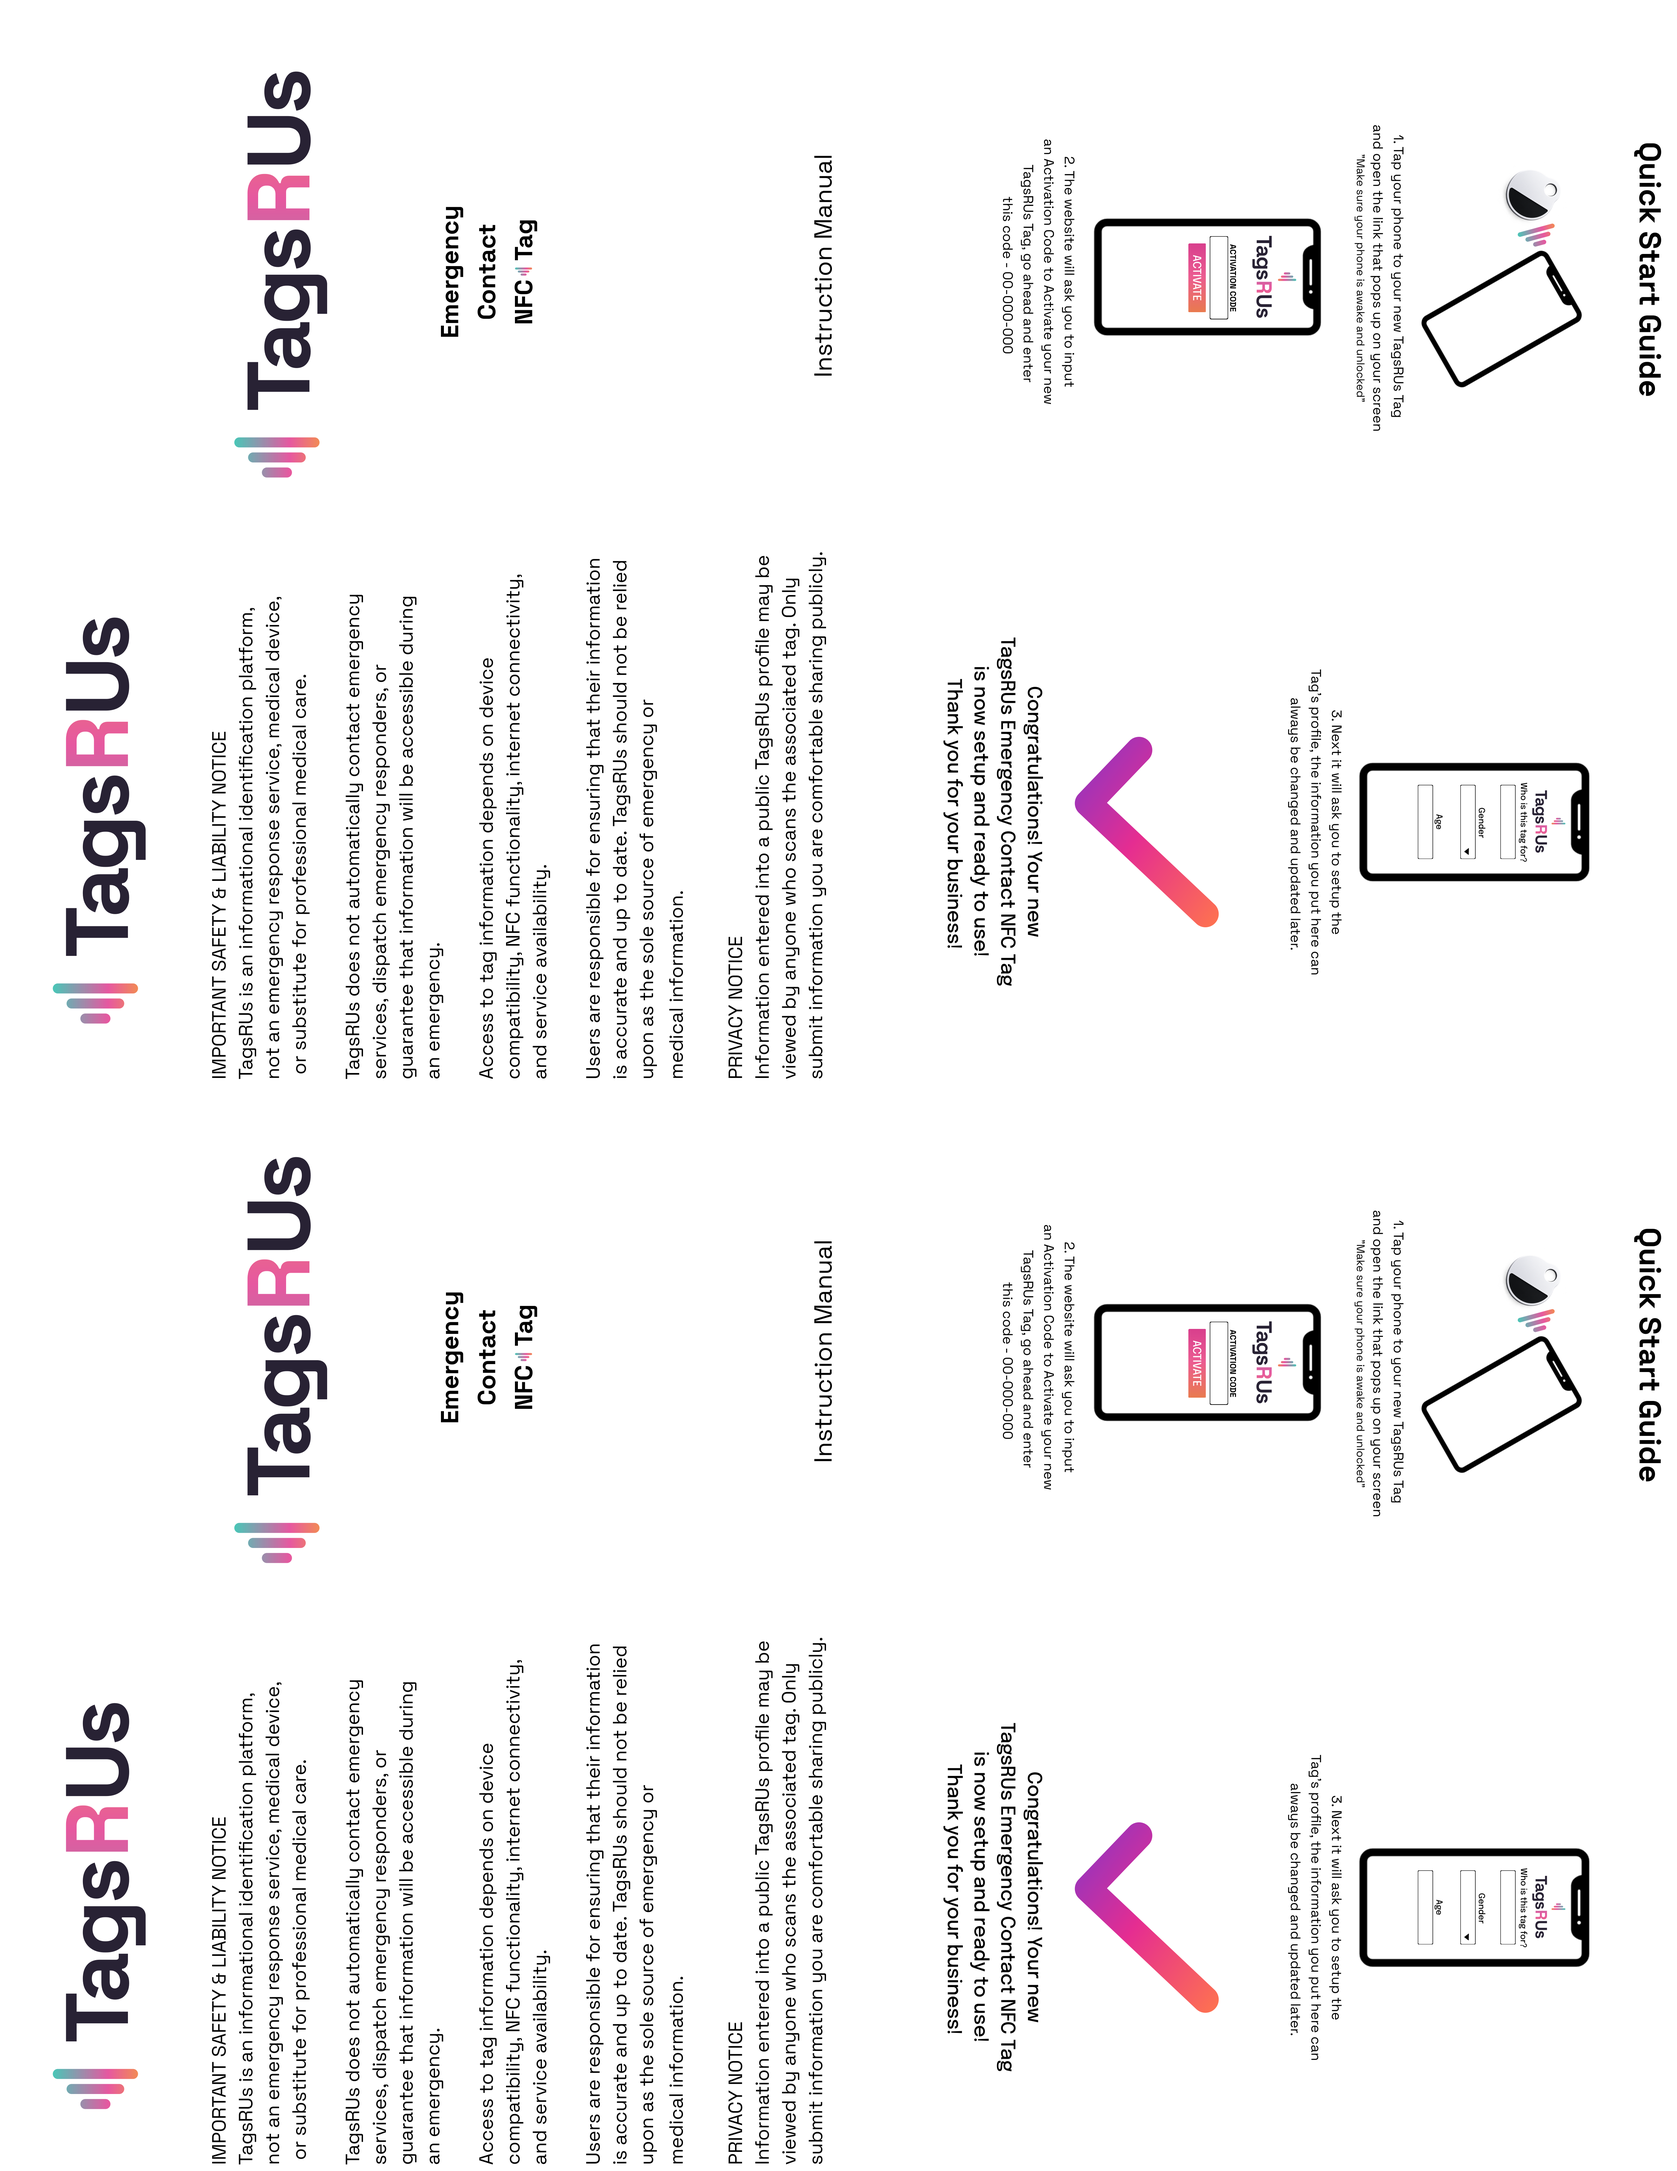
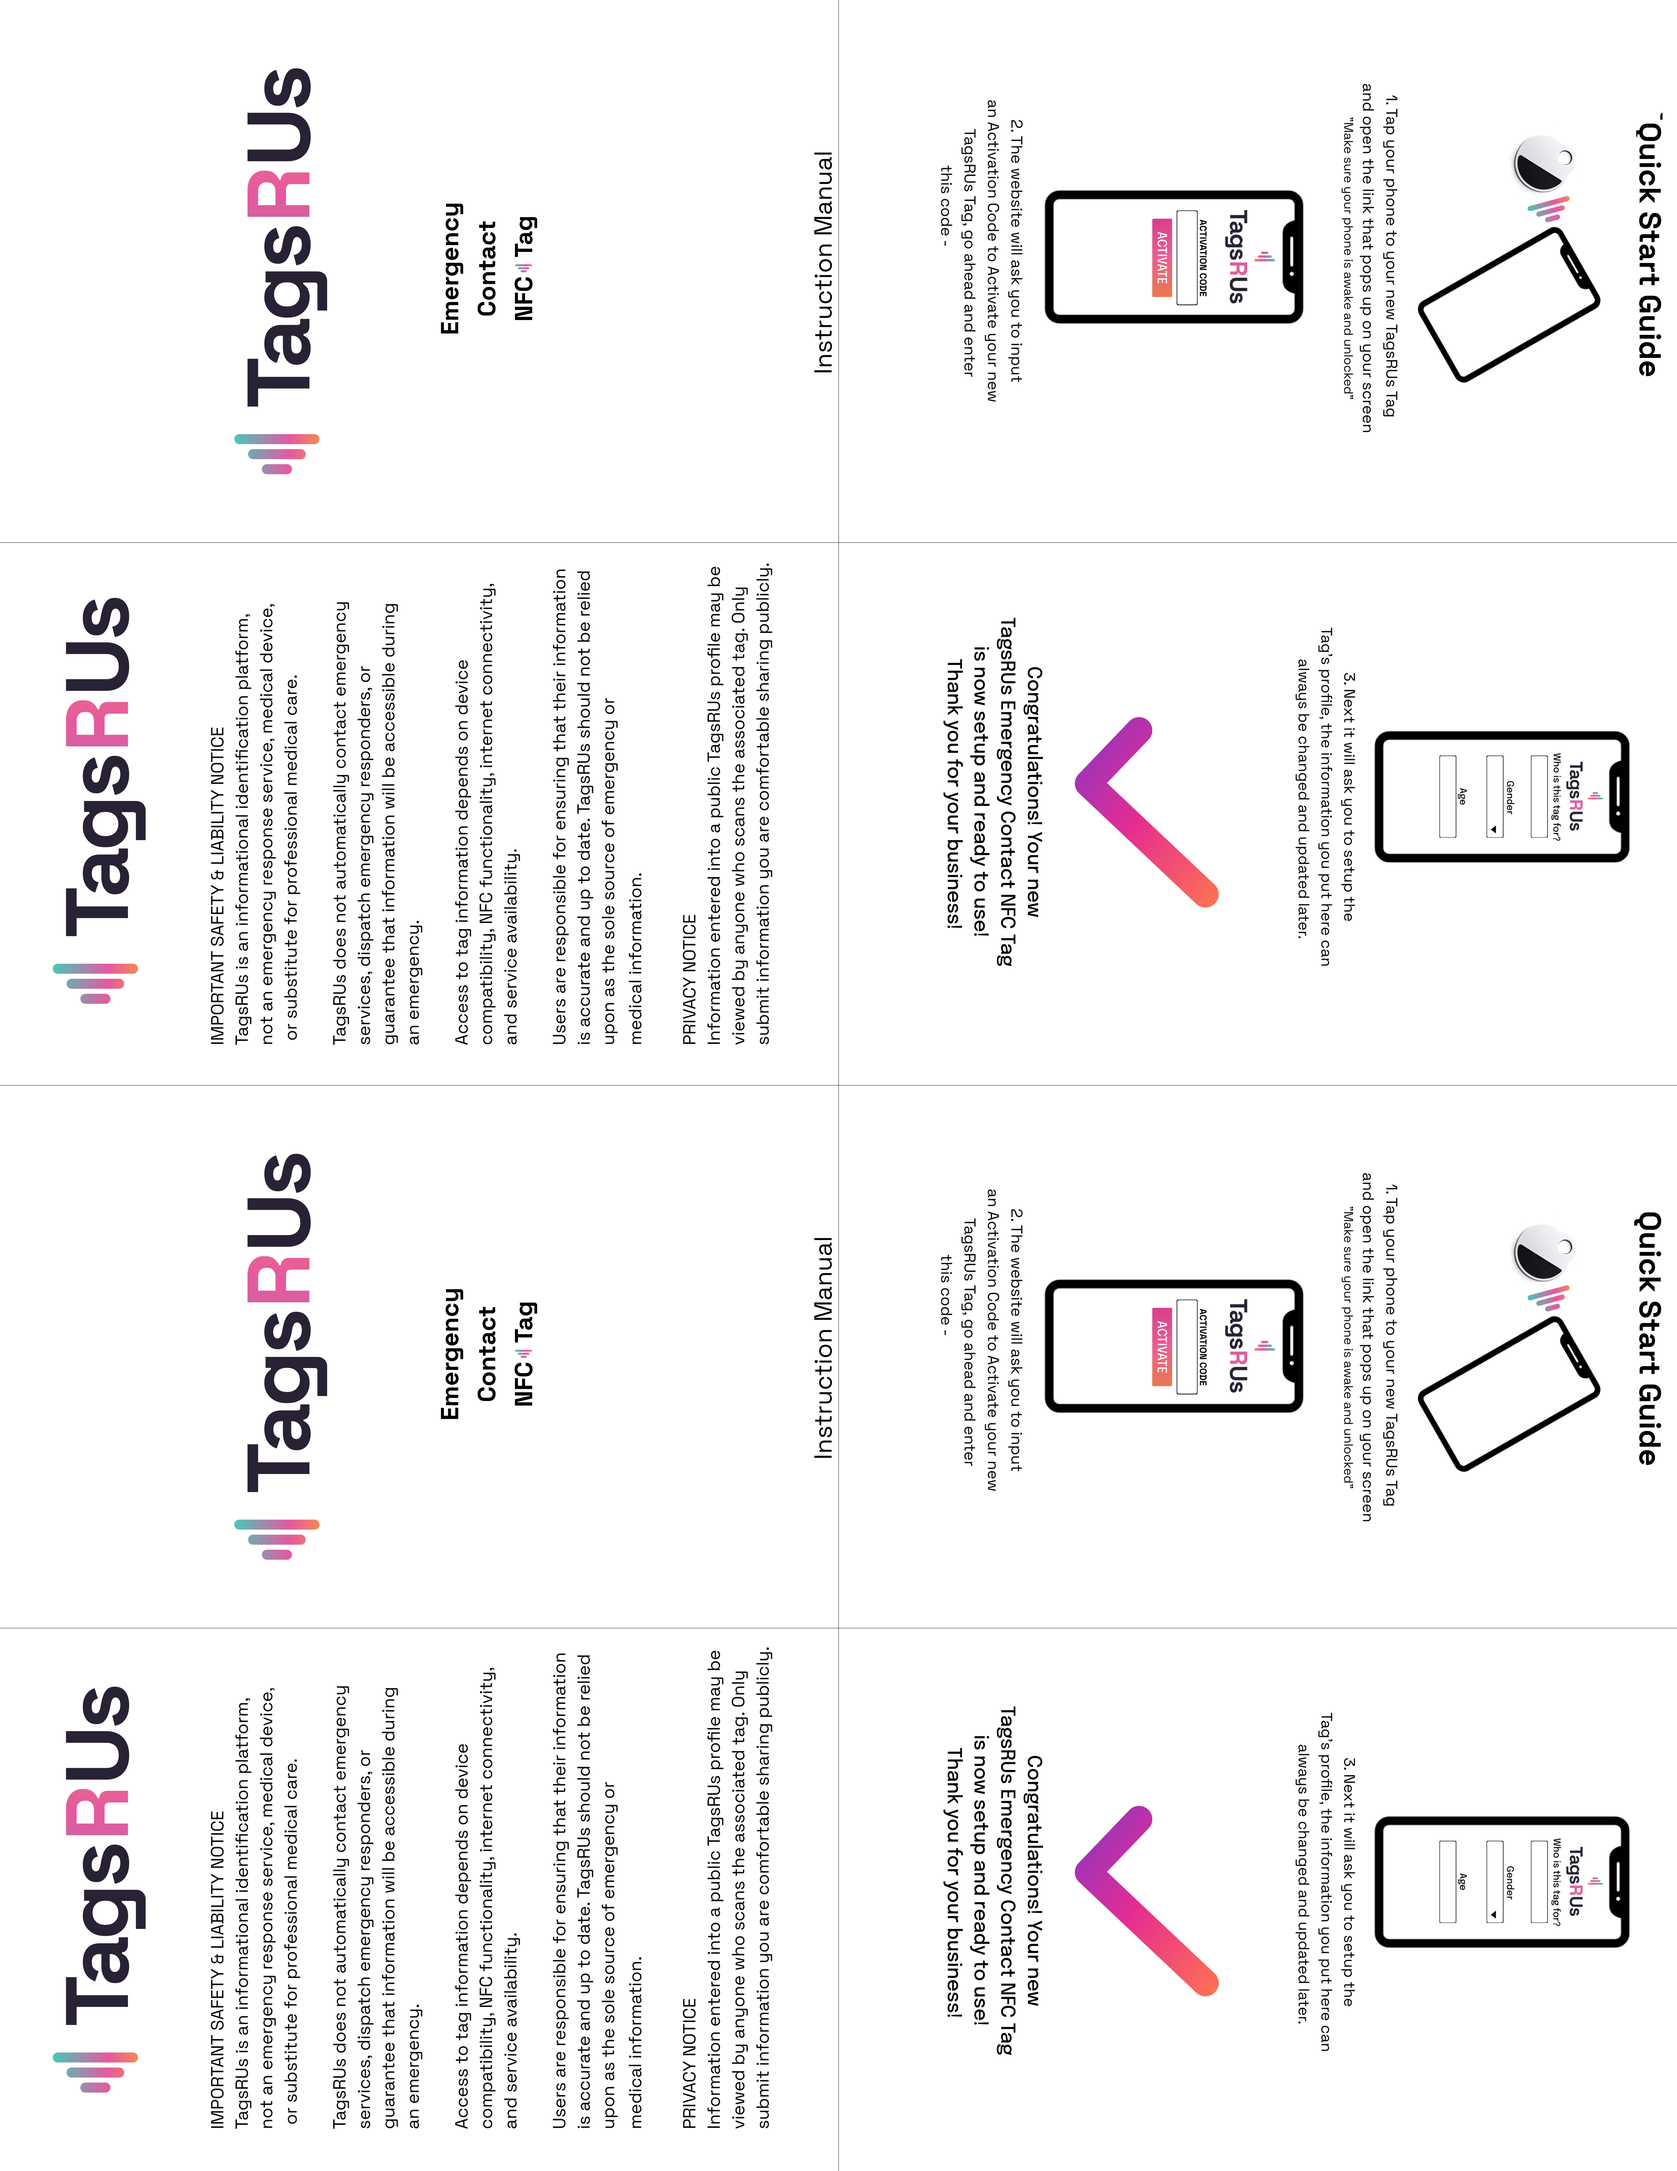
Add tag unregister flow

diff --git a/src/main.jsx b/src/main.jsx
@@ -168,7 +168,7 @@ function Checkout() { const [qty, setQty] = useState(1); const navigate = useNav
 function Dashboard() {
   const { user } = useAuth(); const navigate = useNavigate();
   const [tags, setTags] = useState([]); const [showAdd, setShowAdd] = useState(false); const [code, setCode] = useState('');
-  const [notice, setNotice] = useState(''); const [error, setError] = useState(''); const [busy, setBusy] = useState(false); const [loading, setLoading] = useState(true);
+  const [notice, setNotice] = useState(''); const [error, setError] = useState(''); const [busy, setBusy] = useState(false); const [unregisteringId, setUnregisteringId] = useState(''); const [loading, setLoading] = useState(true);
   const client = requireSupabase();
   async function loadTags() {
     setLoading(true); setError('');
@@ -187,6 +187,16 @@ function Dashboard() {
     if (updateError) setError(readableError(updateError));
     else { setNotice(status === 'active' ? 'Tag reactivated.' : 'Tag deactivated. Its public profile is no longer available.'); await loadTags(); }
   }
+  async function unregisterTag(tag) {
+    if (!window.confirm(`Unregister ${tag.name}? This removes the tag and its profile from your account. Its activation code can be connected again.`)) return;
+    setUnregisteringId(tag.id); setError(''); setNotice('');
+    try {
+      const { error: unregisterError } = await client.rpc('unregister_tagsrus_tag', { p_tag_id: tag.id });
+      if (unregisterError) setError(readableError(unregisterError));
+      else { setNotice('Tag unregistered. Its activation code is available to connect again.'); await loadTags(); }
+    } catch (unregisterError) { setError(readableError(unregisterError)); }
+    finally { setUnregisteringId(''); }
+  }
   async function claimTag(e) {
     e.preventDefault(); setBusy(true); setError(''); setNotice('');
     const { data: claimData, error: claimError } = await client.rpc('claim_tagsrus_tag', { p_code: code });
@@ -194,10 +204,10 @@ function Dashboard() {
     else { const claimed = Array.isArray(claimData) ? claimData[0] : claimData; setShowAdd(false); setCode(''); setNotice('Tag connected to your account.'); await loadTags(); if (claimed?.profile_id) navigate(`/dashboard/profiles/${claimed.profile_id}/setup`); }
     setBusy(false);
   }
-  return <div className="dashboard-page"><div className="dashboard-nav"><Container><Logo /><div className="dashboard-nav-actions"><span className="user-chip">{(user.user_metadata?.full_name || user.email || 'U').slice(0, 1).toUpperCase()}</span><span className="user-name">{user.user_metadata?.full_name || user.email}</span><AdminLink /><button className="text-link" onClick={signOut}>Sign out</button></div></Container></div><main><Container className="dashboard-main"><div className="dashboard-heading"><div><p className="eyebrow">Your account</p><h1>My tags</h1><p>Manage your tags and the information they share.</p></div><button className="button" onClick={() => setShowAdd(true)}>{icons.plus} Add a tag</button></div>{notice && <div className="notice" role="status">{icons.check}<span>{notice}</span><button onClick={() => setNotice('')}>×</button></div>}{error && <div className="form-error" role="alert">{error}</div>}{loading ? <p>Loading your tags…</p> : <div className="dashboard-grid">{tags.map(tag => <TagRow key={tag.id} tag={tag} onToggle={() => toggleTag(tag)} />)}{!tags.length && <div className="notice">No tags are connected yet. Add the activation code included with your tag.</div>}<button className="add-card" onClick={() => setShowAdd(true)}><span>{icons.plus}</span><strong>Add another tag</strong><small>Connect another TagsRUs product</small></button></div>}<div className="dashboard-callout"><div className="callout-icon">{icons.shield}</div><div><strong>Your information, your control.</strong><p>Only information you mark public is visible without a PIN. You can change your settings any time.</p></div>{tags[0] && <Link to={`/dashboard/profiles/${tags[0].profile_id}`}>Review profile {icons.arrow}</Link>}</div></Container></main>{showAdd && <div className="modal-backdrop" onClick={() => setShowAdd(false)}><form className="modal" onSubmit={claimTag} onClick={e => e.stopPropagation()}><button type="button" className="modal-close" onClick={() => setShowAdd(false)}>{icons.close}</button><div className="modal-icon">{icons.plus}</div><h2>Add a TagsRUs tag</h2><p>Enter the activation code printed on the back of your tag to connect it to your account.</p><label>Tag code<input value={code} onChange={e => setCode(e.target.value.toUpperCase())} required maxLength="64" autoComplete="off" placeholder="e.g. TR-4829-AX" /></label><button className="button button-full" disabled={busy}>{busy ? 'Connecting…' : 'Connect tag'} {icons.arrow}</button></form></div>}</div>;
+  return <div className="dashboard-page"><div className="dashboard-nav"><Container><Logo /><div className="dashboard-nav-actions"><span className="user-chip">{(user.user_metadata?.full_name || user.email || 'U').slice(0, 1).toUpperCase()}</span><span className="user-name">{user.user_metadata?.full_name || user.email}</span><AdminLink /><button className="text-link" onClick={signOut}>Sign out</button></div></Container></div><main><Container className="dashboard-main"><div className="dashboard-heading"><div><p className="eyebrow">Your account</p><h1>My tags</h1><p>Manage your tags and the information they share.</p></div><button className="button" onClick={() => setShowAdd(true)}>{icons.plus} Add a tag</button></div>{notice && <div className="notice" role="status">{icons.check}<span>{notice}</span><button onClick={() => setNotice('')}>×</button></div>}{error && <div className="form-error" role="alert">{error}</div>}{loading ? <p>Loading your tags…</p> : <div className="dashboard-grid">{tags.map(tag => <TagRow key={tag.id} tag={tag} onToggle={() => toggleTag(tag)} onUnregister={() => unregisterTag(tag)} unregistering={unregisteringId === tag.id} />)}{!tags.length && <div className="notice">No tags are connected yet. Add the activation code included with your tag.</div>}<button className="add-card" onClick={() => setShowAdd(true)}><span>{icons.plus}</span><strong>Add another tag</strong><small>Connect another TagsRUs product</small></button></div>}<div className="dashboard-callout"><div className="callout-icon">{icons.shield}</div><div><strong>Your information, your control.</strong><p>Only information you mark public is visible without a PIN. You can change your settings any time.</p></div>{tags[0] && <Link to={`/dashboard/profiles/${tags[0].profile_id}`}>Review profile {icons.arrow}</Link>}</div></Container></main>{showAdd && <div className="modal-backdrop" onClick={() => setShowAdd(false)}><form className="modal" onSubmit={claimTag} onClick={e => e.stopPropagation()}><button type="button" className="modal-close" onClick={() => setShowAdd(false)}>{icons.close}</button><div className="modal-icon">{icons.plus}</div><h2>Add a TagsRUs tag</h2><p>Enter the activation code printed on the back of your tag to connect it to your account.</p><label>Tag code<input value={code} onChange={e => setCode(e.target.value.toUpperCase())} required maxLength="64" autoComplete="off" placeholder="e.g. TR-4829-AX" /></label><button className="button button-full" disabled={busy}>{busy ? 'Connecting…' : 'Connect tag'} {icons.arrow}</button></form></div>}</div>;
 }
 
-function TagRow({ tag, onToggle }) { return <div className={`tag-row-card ${tag.status !== 'Active' ? 'is-inactive' : ''}`}><div className="tag-row-main"><div className="mini-tag"><span>)))</span></div><div><div className="tag-row-title"><h2>{tag.name}</h2><span className={`status ${tag.status === 'Active' ? 'status-active' : 'status-inactive'}`}><i></i>{tag.status}</span></div><p>{tag.profile} · Updated {tag.updated}</p><a className="profile-url" href={`/t/${tag.public_token}`} target="_blank" rel="noreferrer">{window.location.host}/t/{tag.public_token} ↗</a></div></div><div className="tag-row-actions"><button title="QR code display is not configured yet" disabled>{icons.qr}</button><Link to={`/dashboard/profiles/${tag.profile_id}`} title="Edit profile">{icons.edit}</Link><button className="deactivate-button" onClick={onToggle}>{tag.status === 'Active' ? 'Deactivate' : 'Reactivate'}</button></div></div>; }
+function TagRow({ tag, onToggle, onUnregister, unregistering }) { return <div className={`tag-row-card ${tag.status !== 'Active' ? 'is-inactive' : ''}`}><div className="tag-row-main"><div className="mini-tag"><span>)))</span></div><div><div className="tag-row-title"><h2>{tag.name}</h2><span className={`status ${tag.status === 'Active' ? 'status-active' : 'status-inactive'}`}><i></i>{tag.status}</span></div><p>{tag.profile} · Updated {tag.updated}</p><a className="profile-url" href={`/t/${tag.public_token}`} target="_blank" rel="noreferrer">{window.location.host}/t/{tag.public_token} ↗</a></div></div><div className="tag-row-actions"><button title="QR code display is not configured yet" disabled>{icons.qr}</button><Link to={`/dashboard/profiles/${tag.profile_id}`} title="Edit profile">{icons.edit}</Link><button className="deactivate-button" onClick={onToggle}>{tag.status === 'Active' ? 'Deactivate' : 'Reactivate'}</button><button className="unregister-button" onClick={onUnregister} disabled={unregistering}>{unregistering ? 'Unregistering…' : 'Unregister'}</button></div></div>; }
 
 function AdminLink() {
   const { user } = useAuth(); const [allowed, setAllowed] = useState(false);
@@ -218,8 +228,8 @@ function drawManualCode(ctx, code, offsetX) {
   ctx.save();
   const instructionText = `this code - ${code}`;
   const instructionFont = '500 42px Arial, sans-serif';
-  const instructionCenterX = 2565 + offsetX;
-  const instructionCenterY = 3075;
+  const instructionCenterX = 2525 + offsetX;
+  const instructionCenterY = 2870;
   ctx.font = instructionFont;
   const instructionWidth = ctx.measureText(instructionText).width;
   const maskWidth = Math.max(760, instructionWidth + 24);
@@ -236,8 +246,9 @@ function drawManualCode(ctx, code, offsetX) {
 
   ctx.save();
   ctx.fillStyle = '#fff';
-  ctx.fillRect(2338 + offsetX, 3685, 234, 38);
-  ctx.translate(2455 + offsetX, 3704);
+  const phoneAdjustment = offsetX ? -10 : 0;
+  ctx.fillRect(2395 + offsetX + phoneAdjustment, 3584, 240, 32);
+  ctx.translate(2525 + offsetX + phoneAdjustment, 3598);
   ctx.rotate(Math.PI);
   ctx.fillStyle = '#111';
   ctx.font = '700 23px Arial, sans-serif';

diff --git a/src/friendly-theme.css b/src/friendly-theme.css
@@ -216,6 +216,7 @@ select option:hover { color: #3c2850; background: #f2eaf6; }
 .status-inactive i { background: #df6675; }
 .tag-row-actions > button, .tag-row-actions > a { color: #635b6b; }
 .deactivate-button { color: #ba5062; }
+.unregister-button { color: #8f3d68 !important; }
 .add-card { color: #544d5c; border-color: #d9d0de; background: #fff; }
 .add-card > span { color: #d74491; background: #fff0f6; }
 .modal-icon { color: #187f75; background: #e4f5f1; }
